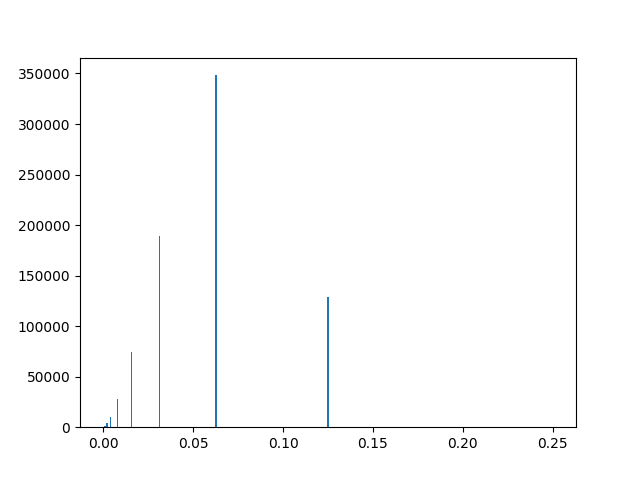
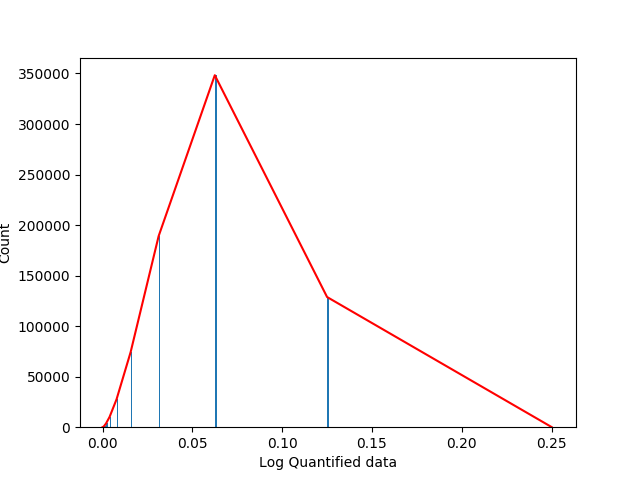
update figure

diff --git a/weithts_distribution/getDistribution.py b/weithts_distribution/getDistribution.py
@@ -2,12 +2,9 @@ import numpy as np
 import matplotlib as mpl
 import matplotlib.pyplot as plt
 import math
+import collections
 from collections import Counter
 import seaborn as sns 
-
-
-repFile=open("cjyreplaced","r")
-
 
 
 """
@@ -46,12 +43,13 @@ Round(x)
 """
 
 #oneDemArray=np.array([])
+repFile=open("cjyreplaced","r")
 
 Maxima=0
 Minima=0
 
 
-print(repFile.tell())
+#print(repFile.tell())
 for line in repFile:
 	content=line.split()
 	#print(content)
@@ -64,14 +62,14 @@ for line in repFile:
 		else:
 			doNothing=0
 
-print(repFile.tell())
+#print(repFile.tell())
+
 FSR=Maxima-Minima
-print(2**(FSR-1))
+
+
+#print(2**(FSR-1))
 MIN=FSR-(2**4)
 
-	#print(impArr.shape)
-	#plt.figure('scattered sampling')
-	#plt.scatter()
 
 
 def Clip(x):
@@ -95,7 +93,10 @@ def Round(num):
 QuanWeights = []
 
 repFile1=open("cjyreplaced_dom","r")
-print(repFile1.tell())
+
+repFile2=open("quantified_data","w+")
+
+#print(repFile1.tell())
 for line2 in repFile1:
 	content2=line2.split()
 	for numbers2 in content2:
@@ -105,25 +106,37 @@ for line2 in repFile1:
 			QuanWeights.append(float(0))
 		else:
 			QuanWeights.append(2**Quantee)
-			
+			repFile2.write(str(2**Quantee))
 #a counter is a dict subclass for counting hashable objects.
 
 outCount=Counter(QuanWeights)
 
-wKeys=outCount.keys()
 
-wValues=outCount.values()
+
+sortedOutCount = collections.OrderedDict(sorted(outCount.items()))
+
+
+
+
+wKeys=np.array(sortedOutCount.keys())
+wValues=np.array(sortedOutCount.values())
+
+
 
 #print(QuanWeights)
+#print(outCount)
+
+#sns.factorplot(outCount, rug=True)
+plt.plot(wKeys,wValues,label='Frist line',color='r') 
+
+#plt.hist(od, bins=50, color='steelblue', normed=True)
 
 
-#sns.distplot(QuanWeights, rug=True)
+plt.bar(wKeys,wValues,width=0.001,align='edge')
+plt.xlabel('Log Quantified data')    
+plt.ylabel('Count')
 
-
-#plt.hist(QuanWeights, bins=50, color='steelblue', normed=True)
-
-
-plt.bar(wKeys,wValues,width=0.001)
+#plt.yticks(wValues)
 #print(type(wKeys))
 #print(len(QuanWeights))
 
